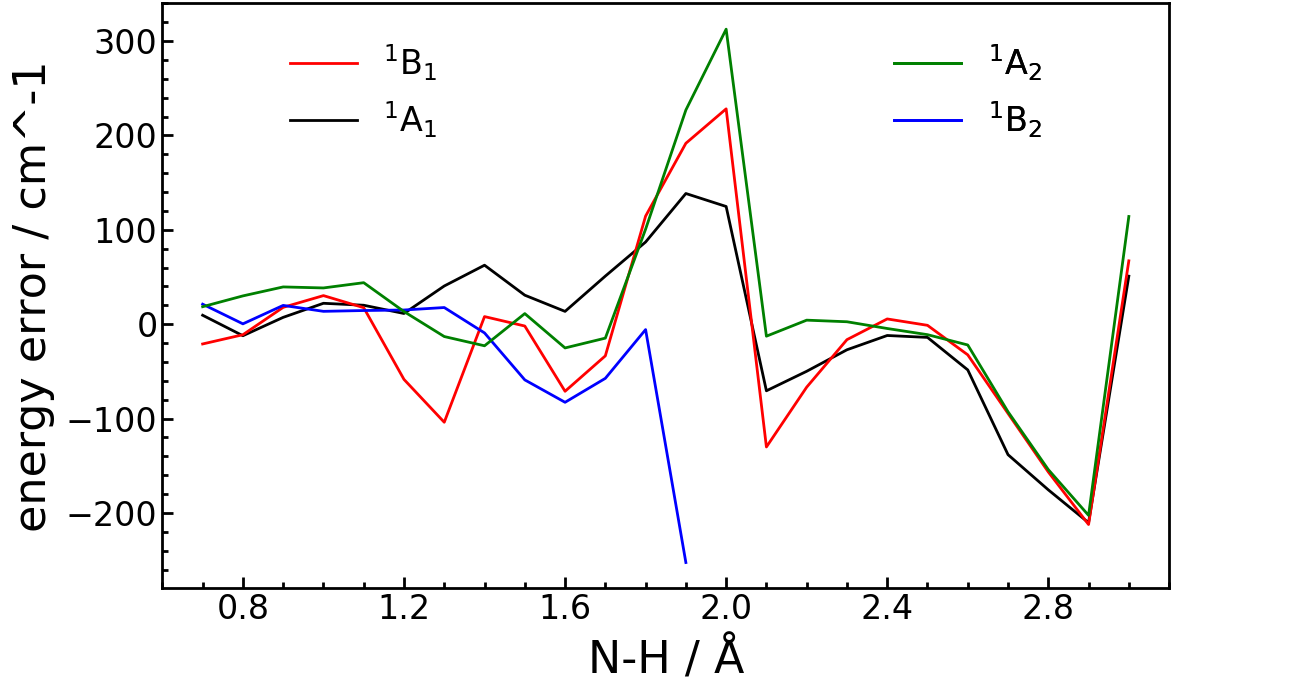
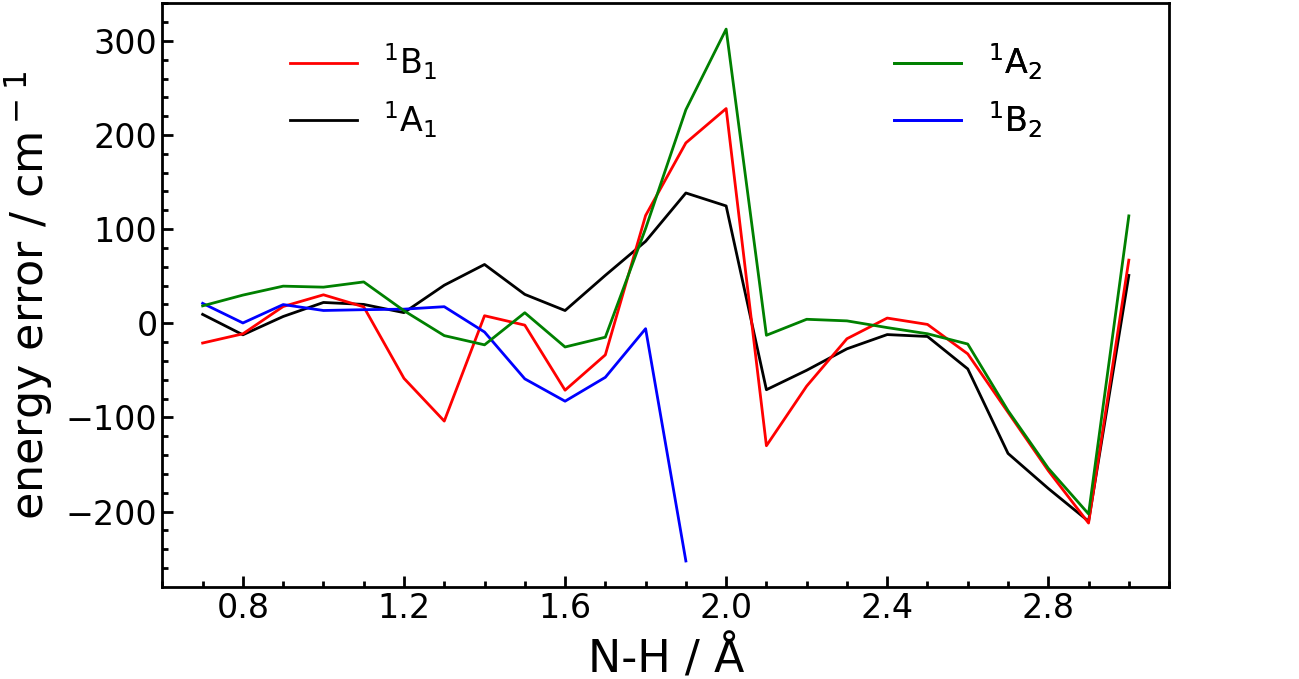
make cm^-1 superscript

diff --git a/diabatz/analysis/fast/plot_energy_error.py b/diabatz/analysis/fast/plot_energy_error.py
@@ -25,8 +25,8 @@ for i in range(4):
     line, = ax.plot(NH, error[:, i], color=colors[i], label=labels[i], linewidth=2)
     lines.append(line)
 
-ax.set_xlabel("N-H / Å"             , fontsize=32, labelpad=8)
-ax.set_ylabel("energy error / cm^-1", fontsize=32, labelpad=8)
+ax.set_xlabel("N-H / Å"                  , fontsize=32, labelpad=8)
+ax.set_ylabel("energy error / cm$^-$$^1$", fontsize=32, labelpad=8)
 
 ax.set_xlim( 0.6, 3.1)
 ax.set_ylim(-280, 340)
